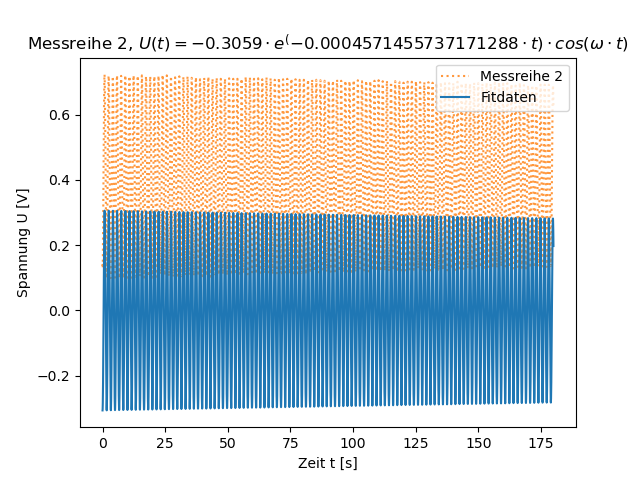
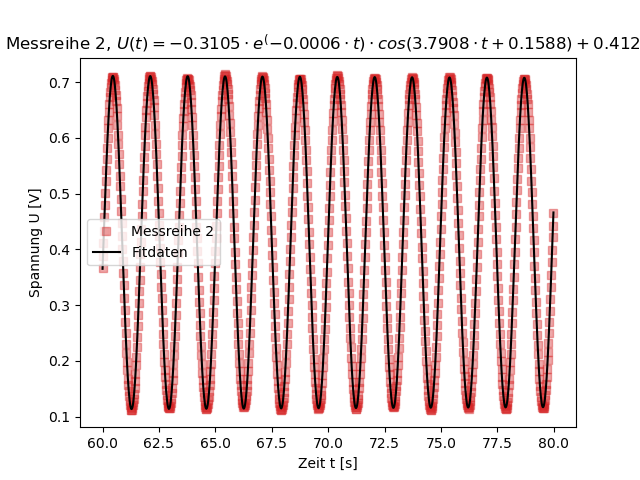
guter fit

diff --git a/V2_Mechanik/Valentin/auswertung_valentin.py b/V2_Mechanik/Valentin/auswertung_valentin.py
@@ -18,36 +18,38 @@ messung_rauschen     = cassy_daten_rauschen.messung(1)
 print(CassyDaten(DATEN_Messreihen).info())
 print(cassy_daten_rauschen.info())
 
-def auswertung_messreihe(DATEN, i, trim_vorne=0, trim_hinten=-1):
+def auswertung_messreihe(DATEN, i, trim_vorne=0, trim_hinten=-1, plot_intervall=[3000,4000]):
 
     print(f'\nAuswertung {i}:')
-    colors = ['tab:blue', 'tab:orange', 'tab:green', 'tab:red', 'tab:purple', 'tab:brown', 'tab:pink', 'tab:gray', 'tab:olive', 'tab:cyan']
     messung = CassyDaten(DATEN).messung(i)
     
     t = messung.datenreihe('t').werte[trim_vorne:trim_hinten]
     U = messung.datenreihe('U_B1').werte[trim_vorne:trim_hinten]
 
-    def f(t, A, B, w):
-        return A * np.exp(-B * t) * np.cos(w * t)
+    def f(t, A, B, w, phi, y_0):
+        return A * np.exp(-B * t) * np.cos(w * t + phi) + y_0
     
-    popt, pcov = curve_fit(f, t, U, p0=[U.max(), 0.1, 2 * np.pi])
+    popt, pcov = curve_fit(f, t, U, p0=[U.max(), 0.1, 2 * np.pi, 0, np.mean(U)])
 
-    A_fit, B_fit, w_fit = popt
-    print(f'U_0 = {A_fit}')
-    print(f'delta = {B_fit}')
-    print(f'w = {w_fit}')
+    A_fit, B_fit, w_fit, phi_fit, y_0_fit = popt
+
+    print(f'U_0 = {A_fit:.4f}')
+    print(f'delta = {B_fit:.4f}')
+    print(f'w = {w_fit:.4f}')
     print(f'T = {2 * np.pi / w_fit:.4f}')
+    print(f'phi = {phi_fit:.4f}')
+    print(f'y_0 = {y_0_fit:.4f}')
 
     fig, ax = plt.subplots()
-    ax.plot(t, U, ls=':', label=f'Messreihe {i}', color=colors[i-1], alpha=0.8)
-    ax.plot(t, f(t, *popt), label='Fitdaten')
+    ax.plot(t[plot_intervall[0]:plot_intervall[1]], U[plot_intervall[0]:plot_intervall[1]], marker='s', ls='', label=f'Messreihe {i}', color='tab:red', alpha=0.4)
+    ax.plot(t[plot_intervall[0]:plot_intervall[1]], f(t, *popt)[plot_intervall[0]:plot_intervall[1]], color='0', label='Fitdaten')
     ax.set_xlabel('Zeit t [s]')
     ax.set_ylabel('Spannung U [V]')
-    ax.set_title(f'Messreihe {i}, $U(t)={A_fit:.4f}\cdot e^(-{B_fit}\cdot t)\cdot cos(\omega\cdot t)$')
+    ax.set_title(f'Messreihe {i}, $U(t)={A_fit:.4f}\cdot e^(-{B_fit:.4f}\cdot t)\cdot cos({w_fit:.4f}\cdot t + {phi_fit:.4f}) + {y_0_fit:.4f}$')
     ax.legend()
     fig.savefig(OUTPUT / f'MessungPlusFit{i}')
     plt.close(fig)
-    pass
+    return popt
 
 def rauschmessung(DATEN, dateiname, trim_vorne, trim_hinten, bins=25):
     messung = CassyDaten(DATEN).messung(1)
@@ -74,5 +76,14 @@ def rauschmessung(DATEN, dateiname, trim_vorne, trim_hinten, bins=25):
 mittel, sigma = rauschmessung(DATEN_rauschen, 'Rauschmessung', 10, -1)
 print(f'U = ({mittel:.4f}+-{sigma:.4f})V')
 
+omegas = []
 for i in range(1, 11):
-    auswertung_messreihe(DATEN_Messreihen, i)
+
+    fit_daten = auswertung_messreihe(DATEN_Messreihen, i)
+
+    omegas.append(fit_daten[2])
+
+omega_mean = np.mean(omegas)
+omega_std  = np.std(omegas, ddof=1)
+
+print(f'\nomega = ({omega_mean:.4f}+-{omega_std:.4f}) 1/s')
